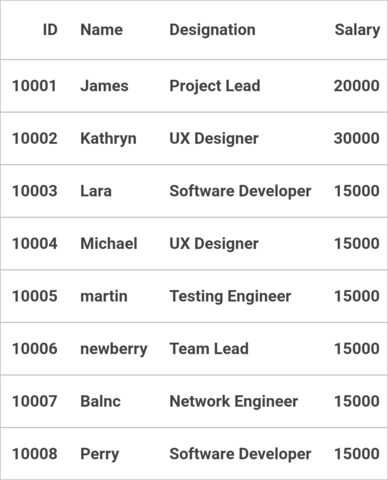
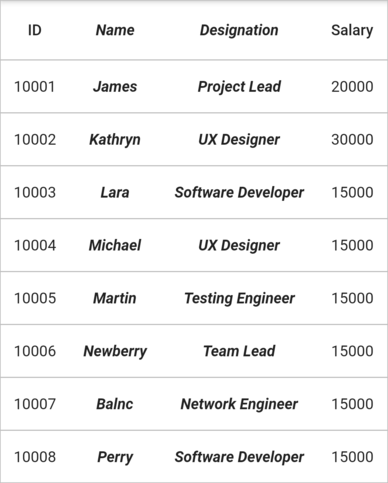
FLUT-4842-[feature][flutter]: Modified the review corrections.

diff --git a/Flutter/datagrid/columns-sizing.md b/Flutter/datagrid/columns-sizing.md
@@ -13,9 +13,9 @@ documentation: ug
 
 | Mode                      | Description                                         |
 |---------------------------|-----------------------------------------------------|
-| ColumnWidthMode.auto      | Calculates the width of column based on header and cell contents. So, the header and cell contents are not truncated. Fetches the contents for the header and cell from the `GridColumn.columName` and `DataGridCell.value` properties. |
-| ColumnWidthMode.fitByCellValue | Calculates the width of column based on cell contents. So, the cell contents are not truncated. |
-| ColumnWidthMode.fitByColumnName | Calculates the width of column based on header content. So, the header contents are not truncated. |
+| ColumnWidthMode.auto      | Calculates the width of column based on `GridColumn.columName` and `DataGridCell.value` properties. So, the header and cell contents are not truncated. |
+| ColumnWidthMode.fitByCellValue | Calculates the width of column based on `DataGridCell.value` property. So, the cell contents are not truncated. |
+| ColumnWidthMode.fitByColumnName | Calculates the width of column based on `GridColumn.columName` property. So, the header contents are not truncated. |
 | ColumnWidthMode.lastColumnFill | Applies default Column width to all the columns except last column which is visible and the remaining width from total width of SfDataGrid is set to last column. |
 | ColumnWidthMode.fill      | Divides the total width equally for columns.         |
 | ColumnWidthMode.none      | No sizing. Default column width or defined width set to column. |
@@ -105,7 +105,7 @@ Widget build(BuildContext context) {
 
 ## Consider all the rows to calculate the autofit size
 
-The datagrid provides the support to specify the calculation range to autofit the columns by using the `SfDataGrid.columnWidthCalculationRange` property.  The default value of `ColumnWidthCalculationRange` is `ColumnWidthCalculationRange.visibleRows`. So, the columns can be autofitted only for the visible rows by default. If you want to consider all the rows to the auto fit calculation, you can simply set the `SfDataGrid.columnWidthCalculationRange` property to `ColumnWidthCalculationRange.allRows`.
+Autofit calculation range can be customized by the `SfDataGrid.columnWidthCalculationRange` property.The default value of `ColumnWidthCalculationRange` is `ColumnWidthCalculationRange.visibleRows`. The autofit calculation range can be considered to all the rows by setting the `columnWidthCalculationRange` property to `ColumnWidthCalculationRange.allRows`.
 
 {% tabs %}
 {% highlight Dart %} 
@@ -170,7 +170,7 @@ Widget build(BuildContext context) {
 
 ## Change the padding value for autofit calculation
 
-The cell padding value for the autofit calculation can be considered from the `GridColumn.autoFitPadding` property. So, the whole column cells can be autofitted based on the `GridColumn.autoFitPadding` and `DataGridCell.value` properties. The default value of `autoFitPadding` is 16.0.
+By default, the cell padding value can't be provided to the autofit calculation. So, the cell padding value for the autofit calculation can be considered from the `GridColumn.autoFitPadding` property. The default value of `autoFitPadding` is 16.0.
 
 {% tabs %}
 {% highlight Dart %} 
@@ -272,7 +272,7 @@ class EmployeeDataSource extends DataGridSource {
 
 ## Autofit calculation based on different TextStyle
 
-The datagrid provides the support to customize the autofit calculation based on the different text style. If you want to autofit the columns with the different text style for the header and data cell, you can override the `ColumnSizer.computeHeaderCellWidth` and `ColumnSizer.computeCellWidth` methods and assign the customized text style to those methods `textStyle` parameter.
+By default, the cell can't be autofitted based on different cell text style. However, the autofit calculation can be calculated based on the `ColumnSizer.computeHeaderCellWidth` and `ColumnSizer.computeCellWidth` methods. Hence you can override those methods and provide your customized text style to the `textStyle` parameter.
 
 {% tabs %}
 {% highlight Dart %} 
@@ -287,65 +287,45 @@ Widget build(BuildContext context) {
     columnWidthMode: ColumnWidthMode.auto,
     columns: <GridColumn>[
       GridColumn(
-        columnName: 'ID',
-        label: Container(
-          padding: EdgeInsets.all(16.0),
-          alignment: Alignment.centerRight,
-          child: Text(
-            'ID',
-            softWrap: false,
-            style: TextStyle(
-              fontSize: 15, 
-              fontWeight: FontWeight.bold, 
-              color: Colors.grey[800]),
-          ),
-        ),
-      ),
+          columnName: 'ID',
+          autoFitPadding: EdgeInsets.all(12.0),
+          label: Container(
+              padding: EdgeInsets.all(12.0),
+              alignment: Alignment.center,
+              child: Text(
+                'ID',
+              ))),
       GridColumn(
-        columnName: 'Name',
-        label: Container(
-          padding: EdgeInsets.all(16.0),
-          alignment: Alignment.centerLeft,
-          child: Text(
-            'Name',
-            softWrap: false,
-            style: TextStyle(
-              fontSize: 15, 
+          columnName: 'Name',
+          autoFitPadding: EdgeInsets.all(12.0),
+          label: Container(
+              padding: EdgeInsets.all(12.0),
+              alignment: Alignment.center,
+              child: Text('Name',
+                  style: TextStyle(
+                      fontWeight: FontWeight.bold,
               fontWeight: FontWeight.bold, 
-              color: Colors.grey[800]),
-          ),
-        ),
-      ),
+                      fontWeight: FontWeight.bold,
+                      fontStyle: FontStyle.italic)))),
       GridColumn(
-        columnName: 'Designation',
-        label: Container(
-          padding: EdgeInsets.all(16.0),
-          alignment: Alignment.centerLeft,
-          child: Text(
-            'Designation',
-            softWrap: false,
-            style: TextStyle(
-              fontSize: 15, 
-              fontWeight: FontWeight.bold, 
-              color: Colors.grey[800]),
-          ),
-        ),
-      ),
+          columnName: 'Designation',
+          autoFitPadding: EdgeInsets.all(12.0),
+          label: Container(
+              padding: EdgeInsets.all(12.0),
+              alignment: Alignment.center,
+              child: Text(
+                'Designation',
+                overflow: TextOverflow.ellipsis,
+                style: TextStyle(
+                    fontWeight: FontWeight.bold, fontStyle: FontStyle.italic),
+              ))),
       GridColumn(
-        columnName: 'Salary',
-        label: Container(
-          padding: EdgeInsets.all(16.0),
-          alignment: Alignment.centerRight,
-          child: Text(
-            'Salary',
-            softWrap: false,
-            style: TextStyle(
-              fontSize: 15, 
-              fontWeight: FontWeight.bold, 
-              color: Colors.grey[800]),
-          ),
-        ),
-      ),
+          columnName: 'Salary',
+          autoFitPadding: EdgeInsets.all(12.0),
+          label: Container(
+              padding: EdgeInsets.all(12.0),
+              alignment: Alignment.center,
+              child: Text('Salary'))),
     ],
   );
 }
@@ -374,12 +354,12 @@ class EmployeeDataSource extends DataGridSource {
         cells: row.getCells().map<Widget>((e) {
       return Container(
         alignment: Alignment.center,
-        padding: EdgeInsets.all(16.0),
+        padding: EdgeInsets.all(12.0),
         child: Text(e.value.toString(),
-            style: TextStyle(
-              fontSize: 15, 
-              fontWeight: FontWeight.bold, 
-              color: Colors.grey[800])),
+            style: (e.columnName == 'Name' || e.columnName == 'Designation')
+                ? TextStyle(
+                    fontWeight: FontWeight.bold, fontStyle: FontStyle.italic)
+                : null),
       );
     }).toList());
   }
@@ -388,20 +368,20 @@ class EmployeeDataSource extends DataGridSource {
 class CustomColumnSizer extends ColumnSizer {
   @override
   double computeHeaderCellWidth(GridColumn column, TextStyle style) {
-    // Replace your customized TextStyle here.
-    style = TextStyle(
-        fontSize: 15, fontWeight: FontWeight.bold, color: Colors.grey[800]);
-    
+    if (column.columnName == 'Name' || column.columnName == 'Designation') {
+      style =
+          TextStyle(fontWeight: FontWeight.bold, fontStyle: FontStyle.italic);
+    }
     return super.computeHeaderCellWidth(column, style);
   }
 
   @override
   double computeCellWidth(GridColumn column, DataGridRow row, Object? cellValue,
       TextStyle textStyle) {
-    // Replace your customized TextStyle here.
-    textStyle = TextStyle(
-        fontSize: 15, fontWeight: FontWeight.bold, color: Colors.grey[800]);
-    
+    if (column.columnName == 'Name' || column.columnName == 'Designation') {
+      textStyle =
+          TextStyle(fontWeight: FontWeight.bold, fontStyle: FontStyle.italic);
+    }
     return super.computeCellWidth(column, row, cellValue, textStyle);
   }
 }
@@ -413,7 +393,7 @@ class CustomColumnSizer extends ColumnSizer {
 
 ## Autofit calculation based on the formatted value 
 
-The data grid provides the support to customize the autofit calculation based on the formatted cell value. If you want to autofit the columns based on the formatted values (i.e, NumberFormat and DateFormat) for the data cell, you can override the `ColumnSizer.computeCellWidth` method and provide your formatted value to that method `cellValue` parameter. 
+By default, the cell can't be autofitted based on the formatted cell value. However, the autofit calculation can be calculated based on the `ColumnSizer.computeCellWidth` method. Hence you can override the method and provide your formatted value to the `cellValue` parameter.
 
 {% tabs %}
 {% highlight Dart %} 

diff --git a/Flutter/datagrid/row-height-customization.md b/Flutter/datagrid/row-height-customization.md
@@ -82,7 +82,7 @@ Widget build(BuildContext context) {
 
 ## Fit the row height based on its content
 
-The row height can be autofit based on its content in the `SfDataGrid.onQueryRowHeight` callback and using the `RowHeightDetails.getIntrinsicRowHeight` method. It calculates the row heights based on the content and improves the readability of the data grid rows. It fetches the header and cell contents from the `GridColumn.columnName` and `DataGridCell.value` properties. By default, it is calculated the height of header and data rows.
+The row height can be autofit based on its content in the `SfDataGrid.onQueryRowHeight` callback and using the `RowHeightDetails.getIntrinsicRowHeight` method.
 
 {% tabs %}
 {% highlight dart %} 
@@ -234,7 +234,7 @@ Widget build(BuildContext context) {
 
 ## Fit the row based on different TextStyle
 
-The datagrid provides the support to customize the autofit calculation based on the different text style. If you want to autofit the rows with the different text style for the header and data rows, you can override the `ColumnSizer.computeHeaderCellHeight` and `ColumnSizer.computeCellHeight` methods and provide your customized text style to those methods `textStyle` parameter.
+By default, the rows can't be autofitted based on different cell text style. However, the autofit calculation can be calculated based on the `ColumnSizer.computeHeaderCellHeight` and `ColumnSizer.computeCellHeight` methods. So, you can override those methods and provide your customized text style to the `textStyle` parameter.
 
 {% tabs %}
 {% highlight dart %}
@@ -256,12 +256,10 @@ Widget build(BuildContext context) {
         label: Container(
           padding: EdgeInsets.all(10.0),
           alignment: Alignment.centerRight,
-          child: Text('ID',
-              softWrap: true,
-              style: TextStyle(
-                  fontSize: 15,
-                  fontWeight: FontWeight.bold,
-                  color: Colors.grey[800])),
+          child: Text(
+            'ID',
+            softWrap: true,
+          ),
         ),
       ),
       GridColumn(
@@ -270,12 +268,12 @@ Widget build(BuildContext context) {
         label: Container(
           padding: EdgeInsets.all(10.0),
           alignment: Alignment.centerLeft,
-          child: Text('Contact Name',
-              softWrap: true,
-              style: TextStyle(
-                  fontSize: 15,
-                  fontWeight: FontWeight.bold,
-                  color: Colors.grey[800])),
+          child: Text(
+            'Contact Name',
+            softWrap: true,
+            style: TextStyle(
+                fontWeight: FontWeight.bold, fontStyle: FontStyle.italic),
+          ),
         ),
       ),
       GridColumn(
@@ -286,12 +284,10 @@ Widget build(BuildContext context) {
         label: Container(
           padding: EdgeInsets.all(10.0),
           alignment: Alignment.centerLeft,
-          child: Text('Company Name',
-              softWrap: true,
-              style: TextStyle(
-                  fontSize: 15,
-                  fontWeight: FontWeight.bold,
-                  color: Colors.grey[800])),
+          child: Text(
+            'Company Name',
+            softWrap: true,
+          ),
         ),
       ),
       GridColumn(
@@ -300,12 +296,12 @@ Widget build(BuildContext context) {
         label: Container(
           padding: EdgeInsets.all(10.0)EdgeInsets.all(10.0),
           alignment: Alignment.centerLeft,
-          child: Text('City',
-              softWrap: true,
-              style: TextStyle(
-                  fontSize: 15,
-                  fontWeight: FontWeight.bold,
-                  color: Colors.grey[800])),
+          child: Text(
+            'City',
+            softWrap: true,
+            style: TextStyle(
+                fontWeight: FontWeight.bold, fontStyle: FontStyle.italic),
+          ),
         ),
       ),
     ],
@@ -340,11 +336,14 @@ class EmployeeDataSource extends DataGridSource {
         alignment: dataCell.columnName == 'ID'
             ? Alignment.centerRight
             : Alignment.centerLeft,
-        child: Text(dataCell.value.toString(),
-            style: TextStyle(
-                fontSize: 15,
-                fontWeight: FontWeight.bold,
-                color: Colors.grey[800])),
+        child: Text(
+          dataCell.value.toString(),
+          style: (dataCell.columnName == 'City' ||
+                  dataCell.columnName == 'Contact Name')
+              ? TextStyle(
+                  fontWeight: FontWeight.bold, fontStyle: FontStyle.italic)
+              : null,
+        ),
       );
     }).toList());
   }
@@ -353,19 +352,20 @@ class EmployeeDataSource extends DataGridSource {
 class CustomColumnSizer extends ColumnSizer {
   @override
   double computeHeaderCellHeight(GridColumn column, TextStyle textStyle) {
-    // Replace your customized TextStyle here.
-    textStyle = TextStyle(
-        fontSize: 15, fontWeight: FontWeight.bold, color: Colors.grey[800]);
+    if (column.columnName == 'Contact Name' || column.columnName == 'City') {
+      textStyle =
+          TextStyle(fontWeight: FontWeight.bold, fontStyle: FontStyle.italic);
+    }
     return super.computeHeaderCellHeight(column, textStyle);
   }
 
   @override
   double computeCellHeight(GridColumn column, DataGridRow row,
       Object? cellValue, TextStyle textStyle) {
-    // Replace your customized TextStyle here.
-    textStyle = TextStyle(
-        fontSize: 15, fontWeight: FontWeight.bold, color: Colors.grey[800]);
-    
+    if (column.columnName == 'Contact Name' || column.columnName == 'City') {
+      textStyle =
+          TextStyle(fontWeight: FontWeight.bold, fontStyle: FontStyle.italic);
+    }
     return super.computeCellHeight(column, row, cellValue, textStyle);
   }
 }
@@ -377,7 +377,7 @@ class CustomColumnSizer extends ColumnSizer {
 
 ## Fit the row based on formatted value
 
-The data grid provides the support to customize the autofit calculation based on the formatted cell values. If you want to autofit the rows based on the formatted values (i.e, NumberFormat and DateFormat) for the data rows, you can override the `ColumnSizer.computeCellHeight` method and provide your formatted value to that method `cellValue` parameter.
+By default, the rows can't be autofitted based on the formatted cell value. However, the autofit calculation can be calculated based on the `ColumnSizer.computeCellHeight` method. So, you can override the method and provide your formatted value to the `cellValue` parameter.
 
 {% tabs %}
 {% highlight dart %}
